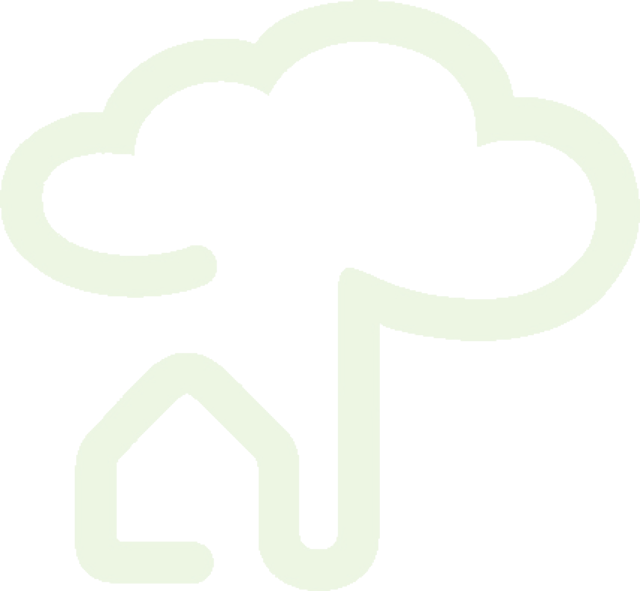
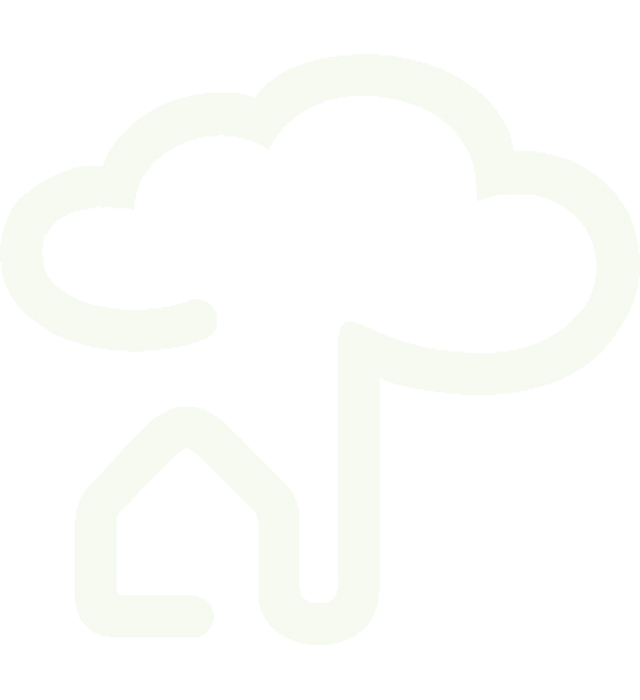
Tree background moved back

diff --git a/server/public/views/templates/survey-intro.html b/server/public/views/templates/survey-intro.html
@@ -1,8 +1,8 @@
 <header ng-include="'/views/partials/header-logout-button.html'"></header>
-<div id="bg" alt="">
+<!-- <div id="bg" alt="">
     <img src="../../assets/tree-transparent-opacity30-800w.png" alt="Smiley face" height="42" width="42">
-</div>
-<div layout="column">
+</div> -->
+<div layout="column" class="aeon-logo-bg">
     <div layout="row" layout-align="center center">
         <div id="intro-message" flex-gt-xs="80" flex-offsetgt-xs="10">
             <h1>{{sc.surveyObject.survey}}</h1>

diff --git a/server/public/views/templates/survey-thanks.html b/server/public/views/templates/survey-thanks.html
@@ -1,10 +1,10 @@
 <header ng-include="'/views/partials/header-login.html'"></header>
 
-<div id="bg" alt="">
+<!-- <div id="bg" alt="">
     <img src="../../assets/tree-transparent-opacity30-800w.png" alt="Smiley face" height="42" width="42">
-</div>
+</div> -->
 
-<div layout="column">
+<div layout="column" class="aeon-logo-bg">
     <div layout="row" layout-align="center center">
         <div id="thankyou-message" flex-gt-xs="80" flex-offsetgt-xs="10">
             <p>{{sc.surveyObject.thanks}}</p>

diff --git a/server/public/views/templates/survey-q3.html b/server/public/views/templates/survey-q3.html
@@ -1,10 +1,10 @@
 <header ng-include="'/views/partials/header-survey.html'"></header>
 
-<div id="bg" alt="">
+<!-- <div id="bg" alt="">
     <img src="../../assets/tree-transparent-opacity30-800w.png" alt="Aeon Tree Img" height="42" width="42">
-</div>
+</div> -->
 
-<div layout="column">
+<div layout="column" class="aeon-logo-bg">
     <div layout="row" layout-align="center">
         <div class="progressbar">
             <i class="material-icons md-48">looks_one</i>

diff --git a/server/public/views/templates/survey-demographics.html b/server/public/views/templates/survey-demographics.html
@@ -1,9 +1,9 @@
 <header ng-include="'/views/partials/header-survey.html'"></header>
-<div id="bg" alt="">
+<!-- <div id="bg" alt="">
     <img src="../../assets/tree-transparent-opacity30-800w.png" alt="Aeon Tree Img" height="42" width="42">
-</div>
+</div> -->
 
-<div layout="column">
+<div layout="column" class="aeon-logo-bg">
     <div layout="row" layout-align="center">
         <div class="progressbar">
             <i class="material-icons md-48">looks_one</i>

diff --git a/server/public/views/templates/survey-q4.html b/server/public/views/templates/survey-q4.html
@@ -1,9 +1,9 @@
 <header ng-include="'/views/partials/header-survey.html'"></header>
-<div id="bg" alt="">
+<!-- <div id="bg" alt="">
     <img src="../../assets/tree-transparent-opacity30-800w.png" alt="Aeon Tree Img" height="42" width="42">
-</div>
+</div> -->
 
-<div layout="column">
+<div layout="column" class="aeon-logo-bg">
     <div layout="row" layout-align="center">
         <div class="progressbar">
             <i class="material-icons md-48">looks_one</i>

diff --git a/server/public/views/templates/survey-q1.html b/server/public/views/templates/survey-q1.html
@@ -1,9 +1,9 @@
 <header ng-include="'/views/partials/header-survey.html'"></header>
-<div id="bg" alt="">
+<!-- <div id="bg" alt="">
     <img src="../../assets/tree-transparent-opacity30-800w.png" alt="Aeon Tree Img" width="42">
-</div>
+</div> -->
 
-<div layout="column">
+<div layout="column" class="aeon-logo-bg">
     <div layout="row" layout-align="center">
         <div class="progressbar">
             <i class="material-icons md-48">looks_one</i>

diff --git a/server/public/styles/style.css b/server/public/styles/style.css
@@ -4,7 +4,8 @@ body {
 }
 
 .aeon-logo-bg {
-    background: url(../assets/tree-bg.png) no-repeat 50% 20%;
+    background: url(../assets/tree-bg.png) no-repeat 50% 0%;
+    min-height: 640px;
 }
 
 .material-icons.md-dark {
